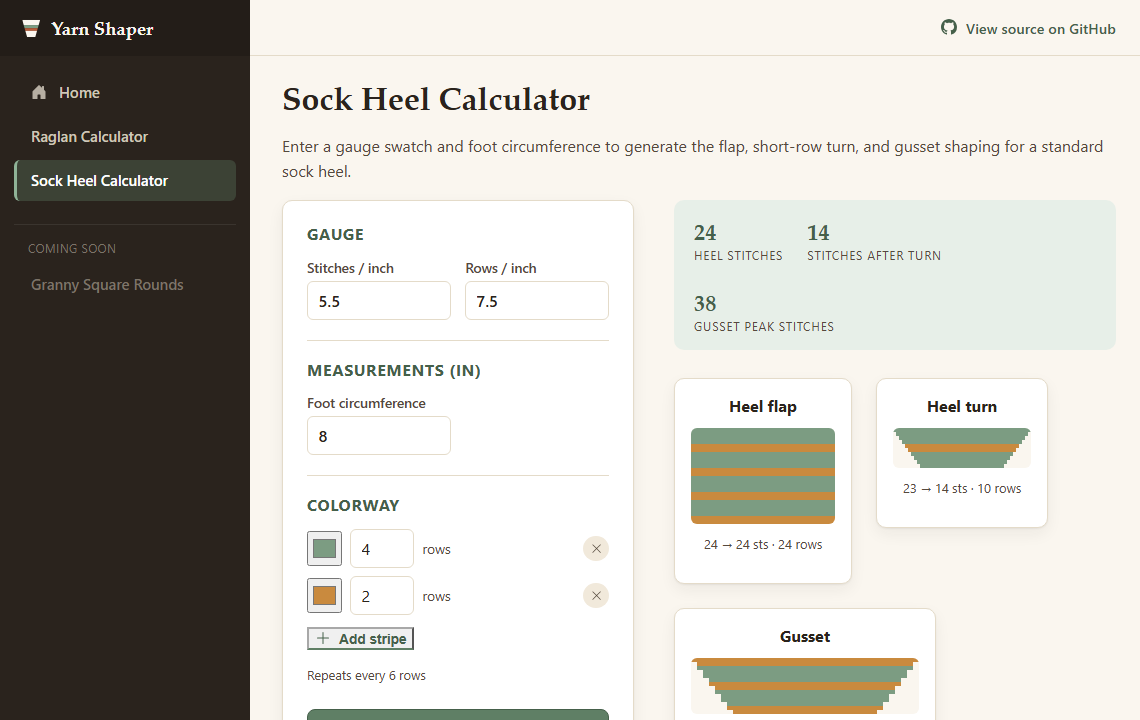
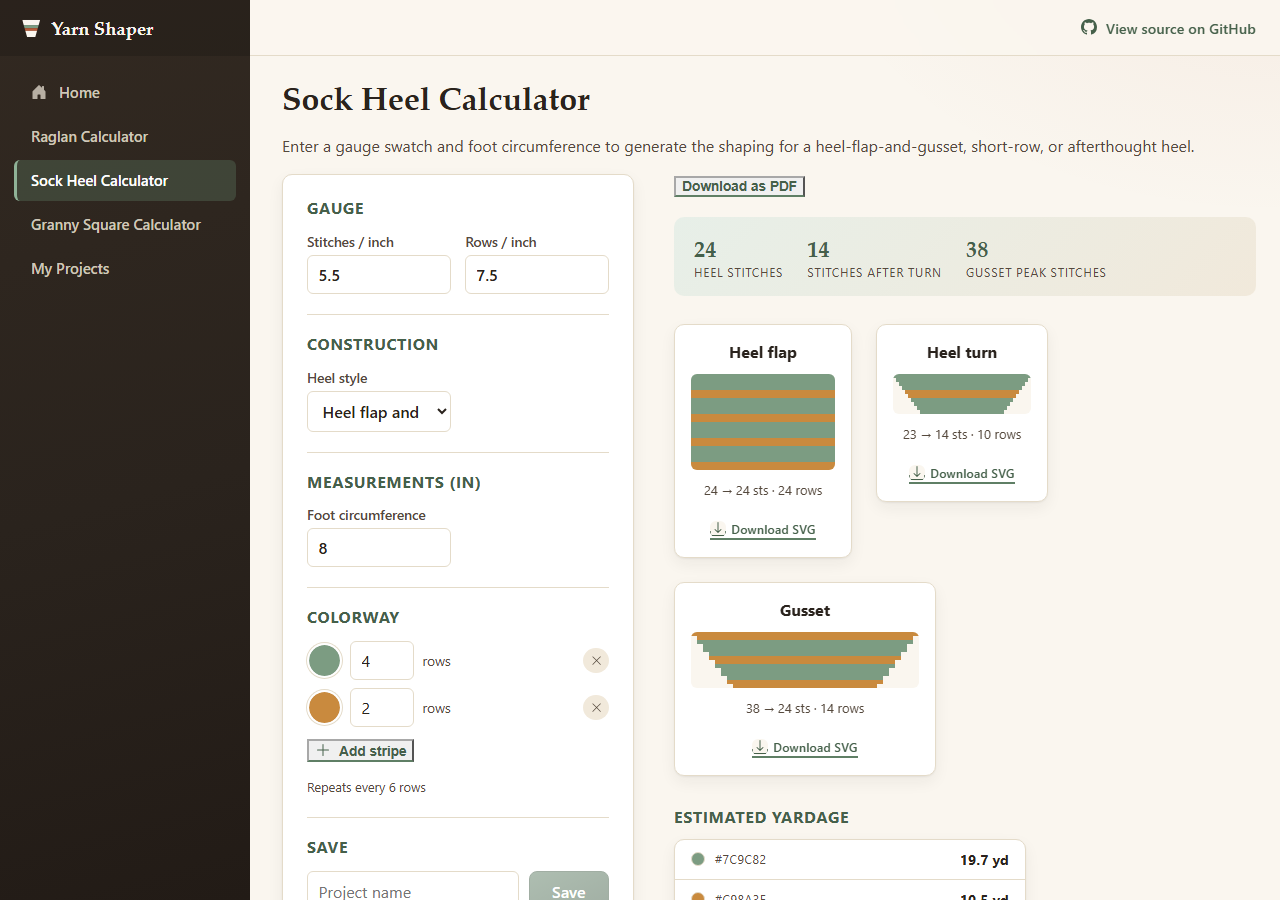
Update README for construction coverage, save/export, and accuracy work
Rewrite to cover what's shipped since the original build plan: raglan
ease/top-down/bottom-up, three sock heel styles, any granny motif
corner count, input validation, local save + My Projects, shareable
links, PDF export, and the accuracy test suite. Add engineering-
decision writeups for the newer pieces (trim-safe JSON, save/share
sharing one payload path, the short-row heel's active-stitch-count
modeling, print-based PDF export). Regenerate all screenshots — the
old ones predated the entire UI redesign. Rewrite "What's next" to
reflect the one item actually left: mobile responsiveness and PWA
support.

diff --git a/README.md b/README.md
@@ -3,13 +3,17 @@
 A garment-shaping calculator, not a form-and-database CRUD app: it turns
 gauge and body measurements into the actual round-by-round stitch math a
 hand-knit sweater is built from, then renders that math live as an SVG
-schematic — no static mockup, no JS charting library, no backend. Everything,
-including the shaping algorithms, is C# compiled to WebAssembly and run
-entirely in the browser.
+schematic — no static mockup, no JS charting library, no backend. The
+shaping algorithms are C# compiled to WebAssembly and run entirely in the
+browser; a few browser APIs that C# genuinely can't reach on its own
+(localStorage, the clipboard, print) are called through minimal, targeted
+JS interop for the save/share/export features, and nowhere else.
 
 **Live demo:** [mollygilchrist03.github.io/YarnShaper](https://mollygilchrist03.github.io/YarnShaper/)
 
-![Raglan yoke schematic — four sections rendered as stepped SVG trapezoids](docs/screenshots/raglan-calculator.png)
+![Home page — a live raglan schematic auto-cycling through preset colorways, no input required](docs/screenshots/home.png)
+
+![Raglan yoke schematic — top-down or bottom-up, with an ease field and four sections rendered as stepped SVG trapezoids](docs/screenshots/raglan-calculator.png)
 
 ![Sock heel schematic — a constant-width flap, a narrowing short-row turn, and a gusset that picks up then decreases](docs/screenshots/sock-heel-calculator.png)
 
@@ -17,33 +21,73 @@ entirely in the browser.
 
 ## What it does
 
-Enter a gauge (stitches/rows per inch) and a set of finished measurements,
-and the raglan calculator produces a full round-by-round shaping schedule
-for a top-down raglan yoke — back, front, and both sleeves — then draws
-each section as a schematic: cast-on at the neck, widening step by step
-toward the underarm, exactly matching the computed stitch counts.
+The home page doesn't wait for input to prove the concept: it renders a
+real raglan schedule from placeholder measurements the moment it loads,
+then cycles its colorway through four preset stripe sequences with a
+smooth color cross-fade — the shaping math and the colorway layer working
+together before you've typed anything.
 
-A colorway picker sits alongside it: build a stripe sequence (color + row
-count per stripe), and it's mapped onto the real row data — all four
-sections recolor in sync, since a raglan yoke is worked in the round and
-row N is the same physical round in every section.
+Enter a gauge (stitches/rows per inch) and a set of body measurements, and
+the raglan calculator produces a full round-by-round shaping schedule for
+a raglan yoke — back, front, and both sleeves — then draws each section as
+a schematic, cast-on stitches widening (or, worked bottom-up, narrowing)
+step by step toward the underarm split, exactly matching the computed
+stitch counts. An ease field controls how much room the finished garment
+gets beyond the body measurement — negative for a closer fit, positive for
+more room — and a construction toggle switches the whole schedule between
+top-down (increase from the neck) and bottom-up (decrease from the
+underarm) without changing any other input.
 
-The sock heel calculator is a second, mechanically different
-construction: a square heel flap, a short-row heel turn that narrows to a
-point, and a gusset that picks up stitches along the flap and decreases
-them back out — reusing the same schematic renderer and colorway picker,
-proving the pipeline isn't raglan-specific.
+A colorway picker sits alongside every calculator: build a stripe
+sequence (color + row count per stripe), and it's mapped onto the real row
+data — every section recolors in sync, since these constructions are
+worked in the round and row N is the same physical round in every section.
 
-The granny square calculator is the simplest of the three: one round-based
-section that grows by a constant 4 clusters every round. Its default
-colorway alternates every single round rather than every few rows — the
-classic "different color each round" granny square look — which the same
-`ColorwayMapper` handles without any changes.
+The sock heel calculator supports three real, mechanically different
+heel techniques from one dropdown: the classic square flap with a
+short-row turn and a picked-up gusset; a short-row heel with no flap at
+all, whose active stitch count narrows to a center point and widens back
+out (rendered schematic, that narrowing and widening literally draws the
+heel's hourglass shape); and an afterthought heel, worked last from
+stitches picked up around a waste-yarn opening and decreased to a
+graftable point like a sock toe.
+
+The granny square calculator generalizes past squares: a corner-count
+field controls how many clusters join every round, so the same
+round-by-round formula that makes a granny square work (4 clusters/round)
+produces a granny hexagon, triangle, or any other N-corner motif just by
+changing that one number.
 
 The raglan and sock heel pages also estimate yardage per color from the
 active colorway — how many yards of each stripe color the piece actually
 uses, not just how many rows it spans. Every schematic can be downloaded
-as a standalone SVG file straight from the card it's rendered on.
+as a standalone SVG file straight from the card it's rendered on, and the
+whole results panel can be saved as a PDF via the browser's native
+print-to-PDF.
+
+Every numeric input is validated — gauge, measurements, ease, corner
+count — with inline error messages, and the calculator simply doesn't run
+on invalid input rather than producing a schematic from nonsense numbers.
+
+**Save, share, and pick back up later.** Any calculator's full setup
+(gauge, measurements, construction choice, colorway) can be saved to the
+browser's local storage under a name you choose, then reopened from a
+**My Projects** page that lists everything saved across all three
+calculators. The same setup can also be copied as a shareable link — the
+whole project is encoded into the URL itself, so opening that link on any
+device (or handing it to someone else) restores the exact setup with no
+account and no server involved.
+
+## Accuracy
+
+`YarnShaper.Core`'s calculators are simplified, proportional models of
+each construction, not a re-implementation of any one published pattern's
+exact technique. [`docs/ACCURACY.md`](docs/ACCURACY.md) hand-traces real
+patterns against the calculators and documents what matches exactly, what
+has a known, regression-pinned gap (the sock heel gusset is 2 stitches
+short of patterns that pick up an extra "ladder" stitch to close a hole),
+and what construction isn't modeled yet at all — credibility from showing
+the actual comparison, not from claiming a perfect match.
 
 ## Notable engineering decisions
 
@@ -53,22 +97,38 @@ as a standalone SVG file straight from the card it's rendered on.
   is a pure function from gauge + measurements to a stitch schedule, with
   its reasoning written out as XML doc comments rather than left implicit
   in the code.
-- **Distributing increases without clumping is a real algorithm, not a
+- **Distributing shaping without clumping is a real algorithm, not a
   loop.** A raglan's four sections (back, front, two sleeves) each need a
-  *different* number of increase rounds to reach their target
+  *different* number of shaping rounds to reach their target
   circumference, but all share the same row budget. Naively front-loading
-  N increases into the first N rows leaves a section idle for the rest of
-  the piece. [`EvenDistribution.cs`](src/YarnShaper.Core/Algorithms/EvenDistribution.cs)
+  N events into the first N rows leaves a section idle for the rest of the
+  piece. [`EvenDistribution.cs`](src/YarnShaper.Core/Algorithms/EvenDistribution.cs)
   spreads N events across M rows using the same integer error-accumulation
   technique as Bresenham's line algorithm — exact counts, no floating-point
   drift, no two events more than one row-gap apart.
+- **Bottom-up raglan reuses top-down's row-building machinery, mirrored,
+  not duplicated.** The only real differences between the two directions
+  are which end each section starts/targets and whether a shaping round
+  adds or removes 2 stitches. `RaglanShapingCalculator` expresses both as
+  one shared `BuildSection` method parameterized by a signed delta, so the
+  two styles can't silently drift out of sync with each other — and the
+  schematic still draws the same visual garment silhouette either way,
+  via a `RowOneAtTop` flip rather than a second rendering path.
 - **Tests check invariants, not a memorized pattern.** Rather than
   hand-copying a "known good" schedule from a real pattern (and risking a
-  silently-wrong fixture), the test suite asserts what has to be true of
-  any correct schedule: monotonic stitch growth, exactly +2 stitches per
-  increase round, convergence on the target circumference within rounding
-  tolerance, and a hard failure when the yoke is too shallow for the
-  required shaping. 61 tests, all in `YarnShaper.Core.Tests`.
+  silently-wrong fixture), most of the unit-test suite asserts what has to
+  be true of any correct schedule: monotonic stitch growth, exactly ±2
+  stitches per shaping round, convergence on the target circumference
+  within rounding tolerance, and a hard failure when the yoke is too
+  shallow for the required shaping.
+- **A short-row heel's schematic tracks the *active* stitch count, not a
+  fabricated increase/decrease.** Unlike a flap-and-gusset heel, a
+  short-row heel never actually changes the round's total stitch count —
+  it narrows the working range to a center point with wraps, then widens
+  back out. Modeling that narrowing/widening as the section's stitch count
+  (rather than forcing it through the same increase/decrease bookkeeping
+  as the other styles) means the rendered schematic draws the heel's
+  actual hourglass shape, for free.
 - **The sock heel's stitch counts are rounded so the gusset math always
   divides evenly, not just for round numbers.** A heel turn always ends at
   H/2 + 2 stitches and a gusset always picks up 3H/2 + 2, so decreasing 2
@@ -81,18 +141,35 @@ as a standalone SVG file straight from the card it's rendered on.
   derivation is in the class's XML doc remarks alongside the code.
 - **SVG straight from Razor, no Canvas/JS interop.** `SchematicRenderer.razor`
   takes a section's row list and draws it directly as stacked, proportionally
-  widening `<rect>` bands — the "hard-to-fake" part of a schematic (increases
-  visibly widening the shape) falls out of the data instead of being drawn
-  by hand.
+  widening `<rect>` bands — the "hard-to-fake" part of a schematic (shaping
+  visibly reshaping the section) falls out of the data instead of being
+  drawn by hand.
 - **Exporting a schematic doesn't need JS interop either.** The same row
   layout that renders the on-screen `<svg>` is built once as a string,
   base64-encoded into a `data:` URI, and set directly as an `<a download>`
   element's `href` — the browser handles the actual file save. That also
   guarantees the download can never drift from what's on screen, since
-  they're computed from the exact same data. It's why there's no PNG
-  export: rasterizing in the browser means `canvas.toBlob()`, which would
-  break the zero-Canvas, zero-JS-interop rendering story everywhere else
-  in this app just for one feature.
+  they're computed from the exact same data.
+- **PDF export reuses the browser's own print pipeline instead of adding a
+  PDF library.** A `@media print` stylesheet hides the nav, form, and
+  action buttons and keeps the schematics, stats, and yardage table
+  intact with colors preserved; a "Download as PDF" button just calls
+  `window.print()`. One line of JS interop instead of a new dependency.
+- **Save and share reuse the exact same payload shape, just two different
+  places to put the bytes.** Both features serialize a calculator's
+  gauge/measurements/colorway to the same JSON shape — local save writes
+  it to `localStorage` under a generated ID, a shareable link base64-encodes
+  it straight into the URL's query string. Loading either path calls the
+  same `ApplyPayload` method, so there's exactly one place that knows how
+  to restore a calculator's state from saved data.
+- **Trim-safe JSON, because "works in `dotnet run`" isn't the same claim
+  as "works in the published app."** Blazor WebAssembly publishes with IL
+  trimming on, which can silently strip the reflection metadata
+  `System.Text.Json` needs for plain POCOs — a bug that's invisible in the
+  dev server and only appears in the trimmed Release build actually
+  deployed to GitHub Pages. Save/share payloads are serialized through a
+  source-generated `JsonSerializerContext` instead, and verified against
+  an actual `dotnet publish -c Release` output, not just the dev server.
 - **The colorway layer is keyed by absolute row number, not per-section
   index.** It would be simpler to map each section's own row list
   independently, but that's physically wrong for a raglan — back, front,
@@ -101,15 +178,12 @@ as a standalone SVG file straight from the card it's rendered on.
   the stripe pattern once against the shared row count and hands the same
   `RowNumber → color` map to every section, so a stripe boundary lines up
   identically across all four schematics.
-- **Not every construction needs the hard algorithm.** The granny square's
-  4-clusters-per-round rule is a closed-form formula (`4 * round`), so
-  [`GrannySquareRoundsCalculator`](src/YarnShaper.Core/Algorithms/GrannySquareRoundsCalculator.cs)
+- **Not every construction needs the hard algorithm.** The granny motif's
+  N-clusters-per-round rule is a closed-form formula (`cornerCount * round`),
+  so [`GrannySquareRoundsCalculator`](src/YarnShaper.Core/Algorithms/GrannySquareRoundsCalculator.cs)
   doesn't reach for `EvenDistribution` at all — deliberately, since forcing
   every calculator through the same machinery would hide which problems
-  actually need it. What's interesting here is downstream instead: it's
-  the first calculator with a single round-based section, and the first
-  page whose default colorway changes color every round rather than every
-  few rows.
+  actually need it.
 - **Yardage is derived from the same gauge already on screen, not a
   separate yarn-weight picker.** There's no way to get exact yardage from
   stitch counts alone — only weighing a real swatch does that — but
@@ -121,6 +195,11 @@ as a standalone SVG file straight from the card it's rendered on.
   calculator's stitch count is a crochet cluster count, not a real stitch
   count, and faking a cluster-to-stitch conversion would produce a number
   that looks precise without being grounded in anything.
+- **Validation gates calculation instead of racing it.** Every gauge and
+  measurement field is `[Range]`-validated with an inline message, and the
+  calculator checks the form's validity before touching the domain layer
+  at all — an invalid field clears the results rather than letting the
+  shaping algorithm run on whatever partial number is currently typed.
 - **CI gates the deploy on the test suite.** The GitHub Actions workflow
   runs `dotnet test` before it ever builds or publishes — a broken shaping
   calculation can't reach the live site.
@@ -136,8 +215,10 @@ as a standalone SVG file straight from the card it's rendered on.
 |---|---|
 | Framework | Blazor WebAssembly (.NET 9) |
 | Shaping math | Plain C# class library (`YarnShaper.Core`), no UI dependencies |
-| Rendering | Inline SVG generated from Razor components — no Canvas, no JS interop |
-| Testing | xUnit (`YarnShaper.Core.Tests`) |
+| Rendering | Inline SVG generated from Razor components — no Canvas |
+| Persistence | Browser `localStorage` (save) and URL query string (share) — no backend, no database |
+| Browser interop | Minimal, targeted JS interop for localStorage, clipboard, and `window.print()` only |
+| Testing | xUnit (`YarnShaper.Core.Tests`) — unit tests plus a fixture-based accuracy suite against real patterns |
 | CI/CD | GitHub Actions — test → publish → deploy |
 | Hosting | GitHub Pages (static, free) |
 
@@ -151,7 +232,17 @@ dotnet run --project src/YarnShaper.Web
 
 ## What's next
 
-Every milestone from the original build plan is shipped. The one
-deliberate omission is PNG export — doing that in-browser needs either
-Canvas or JS interop, and this app avoids both everywhere else, so
-schematics stay SVG-only for now.
+Every calculator from the original build plan, plus construction coverage
+(raglan ease and top-down/bottom-up, three sock heel styles, any granny
+motif corner count), save/share/export, input validation, and an
+accuracy-tested foundation are shipped. What's left:
+
+- **Mobile responsiveness.** The three calculator pages and the schematic
+  renderer haven't been audited at phone-width viewports yet.
+- **PWA support.** A manifest and service worker would make the app
+  installable and usable offline — genuinely low-cost here, since every
+  calculator is already 100% client-side with no network dependency at
+  runtime.
+- **More accuracy fixtures.** `docs/ACCURACY.md` documents one real
+  comparison per calculator's construction; more real patterns, especially
+  ones matching the newer heel/raglan styles, would sharpen it further.
